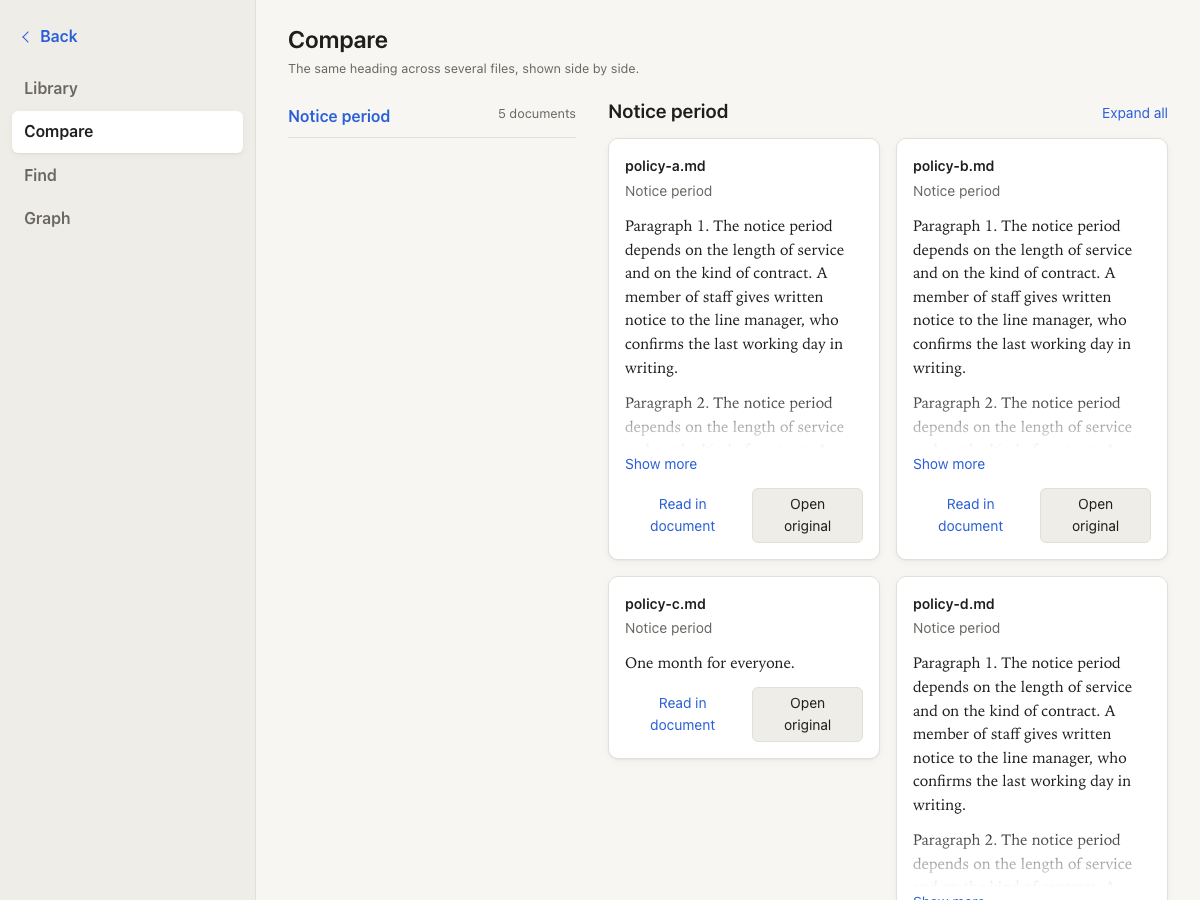
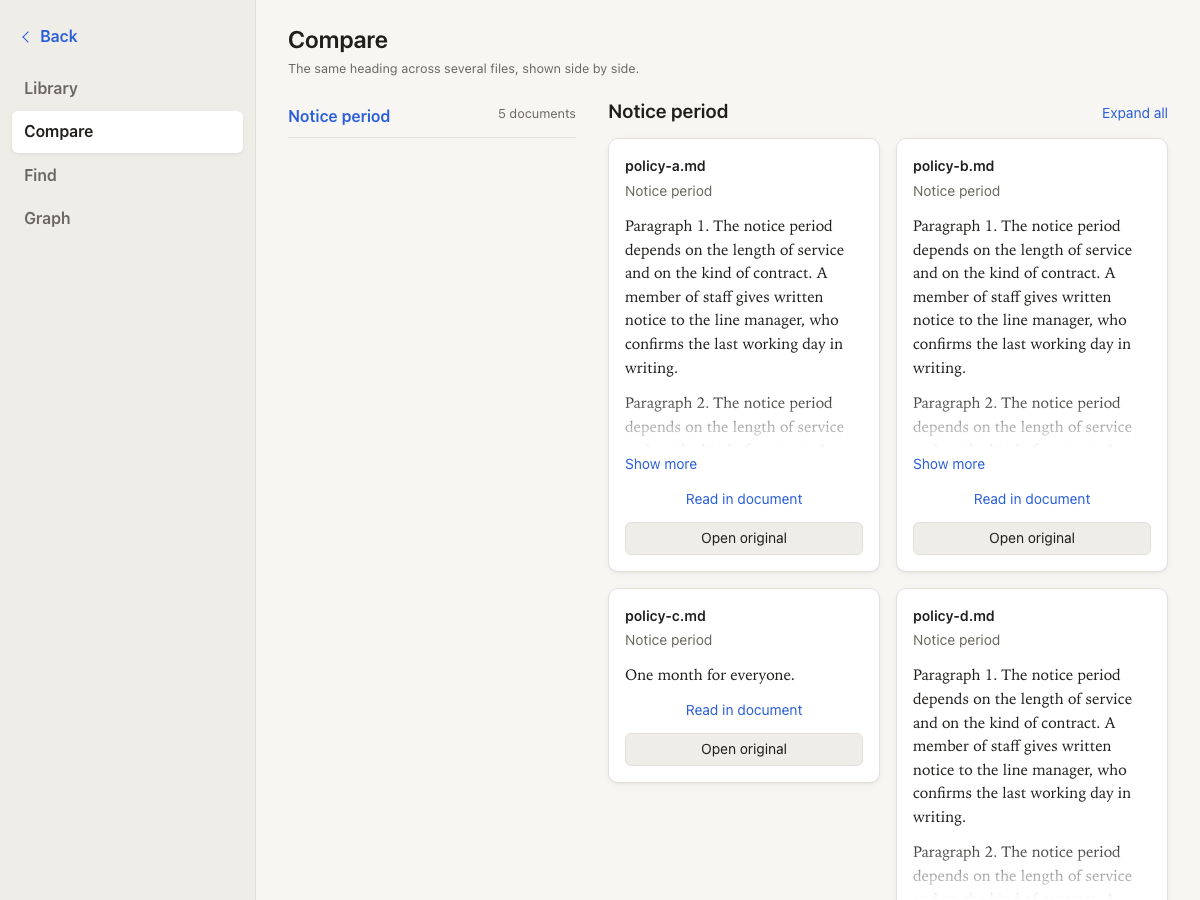
Display fixes: the collapsed group reads Show N more sections or Hide N sections; Compare gives a document one card per heading by logical identity (parts cut by page or after a table, and a repeated heading, in document order with one page range); card actions keep their labels on one line and stac

Changed region(s): [[0.74, 0.5289, 0.9558, 1.0], [0.5242, 0.5289, 0.7092, 0.84]]

diff --git a/test/e2e/ask.spec.js b/test/e2e/ask.spec.js
@@ -1,5 +1,15 @@
 import { test, expect } from '@playwright/test';
-import { mockLibrary, pageUrl, stubBridge, stubAnswer, watcherStatus, card, answerRun, partsOf } from './mocks.js';
+import {
+  cardActionsLayout,
+  mockLibrary,
+  pageUrl,
+  stubBridge,
+  stubAnswer,
+  watcherStatus,
+  card,
+  answerRun,
+  partsOf,
+} from './mocks.js';
 
 const QUESTION = 'How many days of annual leave do employees get?';
 
@@ -80,7 +90,7 @@ test.describe('Ask page with the answer pipeline stubbed', () => {
       const summary = g.considered.locator('summary');
       await expect(summary).toHaveCSS('font-weight', '600');
       await expect(summary).toHaveCSS('font-size', '14px');
-      await expect(summary).toHaveText('▸ Show 1 other section');
+      await expect(summary).toHaveText('▸ Show 1 more section');
     });
 
     test('one starred sentence: its section is in the open group after the sources, the rest stays collapsed', async ({
@@ -179,7 +189,7 @@ test.describe('Ask page with the answer pipeline stubbed', () => {
       ]);
       expect(new Set(shown.map((x) => x.cls)).size).toBe(1);
       expect(shown.every((x) => x.visible)).toBe(true);
-      await expect(g.considered.locator('summary')).toHaveText('▾ Hide 2 other sections');
+      await expect(g.considered.locator('summary')).toHaveText('▾ Hide 2 sections');
       // Display only: the path shows the logical section once, the page in its own line, and the
       // printed page number at the start of a passage is not shown.
       const nest = g.sources.getByTestId('source-card');
@@ -249,9 +259,9 @@ test.describe('Ask page with the answer pipeline stubbed', () => {
     await expect(considered).toBeVisible();
     await expect(considered).not.toHaveAttribute('open', '');
     await expect(considered.getByTestId('source-card')).toBeHidden();
-    await expect(considered.locator('summary')).toHaveText('▸ Show 1 other section');
+    await expect(considered.locator('summary')).toHaveText('▸ Show 1 more section');
     await considered.locator('summary').click();
-    await expect(considered.locator('summary')).toHaveText('▾ Hide 1 other section');
+    await expect(considered.locator('summary')).toHaveText('▾ Hide 1 section');
     await expect(considered.getByTestId('source-card')).toHaveCount(1);
     await expect(considered.getByTestId('source-section')).toHaveText('Facilities > Parking');
     await expect(considered.getByTestId('source-number')).toHaveText(['[3]']);
@@ -259,6 +269,27 @@ test.describe('Ask page with the answer pipeline stubbed', () => {
     await expect(page.getByTestId('answer')).toHaveAttribute('aria-busy', 'false');
     expect(await page.evaluate(() => window.__answerCalls)).toEqual([['ask', QUESTION]]);
   });
+
+  for (const width of [360, 1200]) {
+    test(`card actions keep their labels on one line in a ${width} px window`, async ({ page }) => {
+      await page.setViewportSize({ width, height: 900 });
+      // The first cited card is shortened, so its row also holds the Shortened to fit note.
+      const trimmed = ANSWERED.map((e) =>
+        e.type === 'done' ? { ...e, result: { ...e.result, cited: [{ ...CARRY, trimmed: true }, LEAVE] } } : e,
+      );
+      await open(page, { runs: { [QUESTION]: trimmed } });
+      await askQuestion(page);
+      await page.getByTestId('considered').locator('summary').click();
+      const actions = await cardActionsLayout(page.locator('#result'));
+      expect(actions).toHaveLength(3);
+      for (const a of actions) {
+        expect(a.oneLine).toBe(true);
+        expect(['side by side', 'stacked']).toContain(a.layout);
+      }
+      await expect(page.getByTestId('source-count').first()).toBeVisible();
+      console.log(`[ask] ${width} px: actions ${actions.map((a) => `${a.width}px ${a.layout}`).join(', ')}`);
+    });
+  }
 
   test('a card with a display name shows it first and the file name smaller beside it', async ({ page }) => {
     const named = card(1, {

diff --git a/src/main/browse/browse-index.ts b/src/main/browse/browse-index.ts
@@ -215,22 +215,25 @@ export class BrowseIndex {
   headings(o: { key?: string | null; minDocuments?: number } = {}): HeadingGroup[] {
     const groups = new Map<string, HeadingEntry[]>();
     for (const d of this.docs.values()) {
-      // Parts the splitter cut from one section (T (page N), T (continued)) merge into the entry of
-      // T, so a heading appears once per section and its card holds every part's text in order.
-      const open = new Map<string, HeadingEntry>();
+      // One card per document under a heading, by logical identity: the document and the heading
+      // without the splitter's part marker. Parts it cut by page or after a table (T (page N),
+      // T (continued), and a table section titled T between them) and a heading the document uses
+      // more than once all go into that card, text in document order, one page range over them.
+      const mine = new Map<string, HeadingEntry>();
       for (const s of d.sections) {
         const part = PAGE_PART.test(s.title);
         const title = part ? s.title.replace(PAGE_PART, '').trim() : s.title;
         const key = part ? normalizeHeading(title) : s.heading;
         if (!key || (o.key && key !== o.key)) continue;
-        const owner = part ? open.get(key) : undefined;
+        const owner = mine.get(key);
         if (owner) {
-          if (s.pageStart !== null && owner.pageStart === null) {
+          if (s.pageStart !== null && (owner.pageStart === null || s.pageStart < owner.pageStart)) {
             owner.pageStart = s.pageStart;
             owner.pageLabelStart = s.pageLabelStart;
           }
-          if (s.pageEnd !== null || s.pageStart !== null) {
-            owner.pageEnd = s.pageEnd ?? s.pageStart;
+          const end = s.pageEnd ?? s.pageStart;
+          if (end !== null && (owner.pageEnd === null || end > owner.pageEnd)) {
+            owner.pageEnd = end;
             owner.pageLabelEnd = s.pageLabelEnd ?? s.pageLabelStart;
           }
           if (o.key) owner.text = [owner.text, s.text].filter(Boolean).join('\n\n');
@@ -249,7 +252,7 @@ export class BrowseIndex {
           pageLabelEnd: s.pageLabelEnd,
           ...(o.key ? { text: s.text } : {}),
         };
-        open.set(key, entry);
+        mine.set(key, entry);
         groups.set(key, [...(groups.get(key) ?? []), entry]);
       }
     }

diff --git a/src/main/browse/compare.test.ts b/src/main/browse/compare.test.ts
@@ -73,4 +73,35 @@ describe('Compare groups (BrowseIndex.headings)', () => {
     expect(bankFees).toMatchObject({ sectionIndex: 3, pageStart: 6, pageEnd: 7 });
     expect(bankFees.text).toBe('Fees before the table.\n\nFees after the table.');
   });
+
+  it('gives a document one card per heading: a table section titled like its heading, and the heading used twice', () => {
+    const { index, add } = library();
+    // As structuredTables writes a section with a table: the heading, its text after the table as
+    // (continued), the table as a section titled like the heading, then (continued) again.
+    add('/d/club.pdf', [
+      ['Garden Words', 2, 3, 'Members are people who paid the fee.'],
+      ['Garden Words (continued)', 2, 3, 'Guests are invited by members.'],
+      ['Garden Words', 2, 4, 'Term | Meaning'],
+      ['Garden Words (continued)', 2, 5, 'Trustees are elected yearly.'],
+      ['Meetings', 1, 6, 'Meetings are held monthly.'],
+      ['Garden Words', 2, 9, 'A quorum is five members.'],
+    ]);
+    add('/d/league.pdf', [['Garden Words', 1, 1, 'Teams are clubs that play.']]);
+    const [group] = index.headings({ key: 'garden words' });
+    expect(group!.documents).toBe(2);
+    expect(group!.entries.map((e) => e.documentTitle)).toEqual(['club.pdf', 'league.pdf']);
+    const club = group!.entries[0]!;
+    expect(club).toMatchObject({ title: 'Garden Words', sectionIndex: 1, pageStart: 3, pageEnd: 9 });
+    expect(club.text).toBe(
+      [
+        'Members are people who paid the fee.',
+        'Guests are invited by members.',
+        'Term | Meaning',
+        'Trustees are elected yearly.',
+        'A quorum is five members.',
+      ].join('\n\n'),
+    );
+    expect(index.headings().find((g) => g.key === 'garden words')).toMatchObject({ documents: 2 });
+    expect(index.headings().find((g) => g.key === 'garden words')!.entries).toHaveLength(2);
+  });
 });

diff --git a/test/e2e/mocks.js b/test/e2e/mocks.js
@@ -202,3 +202,31 @@ export async function stubAnswer(
     { runs, fallback, developer },
   );
 }
+
+// Checks the two actions of every card in scope: no label overflows or breaks, and either both sit
+// side by side on one line or the second is under the first with both at the row's full width.
+export async function cardActionsLayout(scope) {
+  return scope.locator('.card-actions').evaluateAll((rows) =>
+    rows.map((row) => {
+      const buttons = [...row.querySelectorAll('button')].filter((b) => b.checkVisibility());
+      const r = row.getBoundingClientRect();
+      const boxes = buttons.map((b) => b.getBoundingClientRect());
+      const lineHeight = (b) => parseFloat(window.getComputedStyle(b).lineHeight) || 20;
+      const oneLine = buttons.every(
+        (b, i) => b.scrollWidth <= b.clientWidth + 1 && boxes[i].height < lineHeight(b) * 1.9 + 16,
+      );
+      // Buttons of different heights share a row when their vertical centres line up.
+      const mid = (b) => (b.top + b.bottom) / 2;
+      const sideBySide = boxes.length === 2 && Math.abs(mid(boxes[0]) - mid(boxes[1])) < 2;
+      const stacked =
+        boxes.length === 2 &&
+        boxes[1].top >= boxes[0].bottom - 1 &&
+        boxes.every((b) => Math.abs(b.width - r.width) < 2);
+      return {
+        width: Math.round(r.width),
+        oneLine,
+        layout: sideBySide ? 'side by side' : stacked ? 'stacked' : 'other',
+      };
+    }),
+  );
+}

diff --git a/src/renderer/ask/groups.test.js b/src/renderer/ask/groups.test.js
@@ -44,6 +44,12 @@ describe('sourceGroups', () => {
     everyOnce(g, sent);
   });
 
+  it("takes a card's details from the result, the sources event only for a source the result left out", () => {
+    const g = sourceGroups({ sent: [card(1), card(2)], cited: [{ ...card(1), trimmed: true }], considered: [] });
+    expect(g.cited[0].trimmed).toBe(true);
+    expect(g.considered.map((c) => c.n)).toEqual([2]);
+  });
+
   it('works without the sources event, from the result alone', () => {
     const g = sourceGroups({ cited: [card(2)], considered: [card(1), card(3)], drawn: [card(3)] });
     expect(numbers(g)).toEqual({ cited: [2], drawn: [3], considered: [1] });
@@ -52,8 +58,9 @@ describe('sourceGroups', () => {
 
 describe('consideredTitle', () => {
   it('says what opening or closing does, with the count', () => {
-    expect(consideredTitle(3, false)).toBe('▸ Show 3 other sections');
-    expect(consideredTitle(3, true)).toBe('▾ Hide 3 other sections');
-    expect(consideredTitle(1, false)).toBe('▸ Show 1 other section');
+    expect(consideredTitle(3, false)).toBe('▸ Show 3 more sections');
+    expect(consideredTitle(3, true)).toBe('▾ Hide 3 sections');
+    expect(consideredTitle(1, false)).toBe('▸ Show 1 more section');
+    expect(consideredTitle(1, true)).toBe('▾ Hide 1 section');
   });
 });

diff --git a/src/renderer/ask/ask.css b/src/renderer/ask/ask.css
@@ -402,10 +402,44 @@ h2 {
 }
 
 .card-actions {
+  /* A size container, so a narrow card stacks its actions instead of breaking their labels. */
+  container: card-actions / inline-size;
   display: flex;
+  flex-wrap: wrap;
   align-items: center;
   justify-content: flex-end;
   gap: var(--space-3);
+}
+
+.card-actions > button {
+  white-space: nowrap;
+}
+
+/* When the actions do not fit side by side, each takes the full width, the second under the
+   first. Measured label widths at 16 px root size: Compare's Read in document and Open original
+   need about 241 px with the gap, Ask's Read section and Open file 180 px, 286 px with the
+   Shortened to fit note; the thresholds are those plus a small margin, in rem so they follow the
+   font size. */
+@container card-actions (max-width: 15.5rem) {
+  .compare-card .card-actions > * {
+    flex: 1 1 100%;
+  }
+}
+
+@container card-actions (max-width: 12rem) {
+  .card .card-actions > * {
+    flex: 1 1 100%;
+  }
+}
+
+@container card-actions (max-width: 18.5rem) {
+  .card .card-actions:has(> .card-count:not([hidden])) > * {
+    flex: 1 1 100%;
+  }
+
+  .card .card-actions:has(> .card-count:not([hidden])) > .card-count {
+    margin-right: 0;
+  }
 }
 
 .card-count {

diff --git a/src/renderer/ask/groups.js b/src/renderer/ask/groups.js
@@ -9,7 +9,8 @@
  */
 export function sourceGroups({ sent = [], cited = [], considered = [], drawn = [] }) {
   const byN = new Map();
-  for (const c of [...sent, ...cited, ...drawn, ...considered]) if (!byN.has(c.n)) byN.set(c.n, c);
+  // The result's cards are final; the sources event only fills in a source the result left out.
+  for (const c of [...cited, ...drawn, ...considered, ...sent]) if (!byN.has(c.n)) byN.set(c.n, c);
   const used = new Set();
   const take = (list) =>
     list.filter((c) => {
@@ -23,8 +24,8 @@ export function sourceGroups({ sent = [], cited = [], considered = [], drawn = [
   return { cited: citedOut, drawn: drawnOut, considered: rest };
 }
 
-/** The collapsed title of the other sections: ▸ Show 3 other sections, ▾ Hide 1 other section. */
+/** The title of the other sections: ▸ Show 3 more sections when closed, ▾ Hide 3 sections when open. */
 export function consideredTitle(count, open) {
-  const noun = count === 1 ? 'other section' : 'other sections';
-  return `${open ? '▾ Hide' : '▸ Show'} ${count} ${noun}`;
+  const noun = count === 1 ? 'section' : 'sections';
+  return open ? `▾ Hide ${count} ${noun}` : `▸ Show ${count} more ${noun}`;
 }

diff --git a/src/renderer/ask/index.html b/src/renderer/ask/index.html
@@ -58,7 +58,7 @@
           </details>
 
           <details class="considered" id="considered" data-testid="considered" hidden>
-            <summary id="considered-title" data-testid="considered-title">▸ Show 0 other sections</summary>
+            <summary id="considered-title" data-testid="considered-title">▸ Show 0 more sections</summary>
             <ol class="cards" id="considered-list"></ol>
           </details>
 

diff --git a/docs/app.md b/docs/app.md
@@ -179,7 +179,7 @@ The browse index (src/main/browse) is one JSON file per document in `<dataDir>/l
 
 Built from the index.json record and the section documents under STORAGE_DIR/documents, so it shows exactly the split that retrieval embeds, OCR text included. Kept current from the watcher's file events (indexed, unchanged, removed); after every watcher start, sync drops entries for files the watcher no longer has and builds missing ones. Loaded before the watcher starts, so the library shows during a long reconcile.
 
-The Compare page asks for headings found in two or more documents only (BrowseIndex.headings, minDocuments 2). Its cards show file name, section and page, then at most 10 lines of text that fade out at the bottom, with Show more and Show less to open a card in place; Expand all or Collapse all at the top acts on every long card. The page uses the whole window width, and the number of columns follows the width the cards get (a container query on the detail column): one below 34rem, two to 56rem (the default 1200 px window), three to 76rem, four above, each card between about 16.5rem and 32rem wide, aligned at the top (test/e2e/compare.spec.mjs, screenshots in docs/screenshots/compare). On the Document page a part the splitter cut by page or after a table shows no title of its own, only its page marker (Page 5); the parent title appears once above the first part. The per-section summary lines stay at each part.
+The Compare page asks for headings found in two or more documents only (BrowseIndex.headings, minDocuments 2). Under a heading a document has exactly one card, by logical identity (the document and the heading without the splitter's part marker): the parts the splitter cut by page or after a table (T (page N), T (continued), and a table section titled like the heading between them) and a heading the document uses more than once go into that card, text in document order, one page range from the first page to the last; the list counts N documents by distinct documents. Its cards show file name, section and page, then at most 10 lines of text that fade out at the bottom, with Show more and Show less to open a card in place; Expand all or Collapse all at the top acts on every long card. The page uses the whole window width, and the number of columns follows the width the cards get (a container query on the detail column): one below 34rem, two to 56rem (the default 1200 px window), three to 76rem, four above, each card between about 16.5rem and 32rem wide, aligned at the top. The two actions of a card (Read in document and Open original on Compare, Read section and Open file on Ask) never break their labels: side by side when they fit, otherwise each at the full card width, the second under the first (a container query on the action row, thresholds from the measured label widths; cardActionsLayout in test/e2e/mocks.js checks every card) (test/e2e/compare.spec.mjs, screenshots in docs/screenshots/compare). On the Document page a part the splitter cut by page or after a table shows no title of its own, only its page marker (Page 5); the parent title appears once above the first part. The per-section summary lines stay at each part.
 
 Heading normalization (src/main/browse/normalize.ts, numbering prefixes from src/main/sections/headings.ts): NFKC, which turns full-width letters, digits and punctuation into half-width; lower case; numbering prefixes removed, repeatedly (1, 1., 1.2.3, 1), 1、, (1), (a), a), I., IV), Chapter 3, Section 2.1, Part II, Article 5, Appendix A, § 4, 第一章, 第12节, 第三条, 第二部分, 一、, (一)); then punctuation and symbols removed and whitespace collapsed. Number parts have at most three digits, so 2026 Budget keeps its year. A heading that is only numbering (第一章 alone) keeps it.
 
@@ -218,7 +218,7 @@ Switches that change the single mode, each off in the presets until an eval roun
 - decomposeQuestions (src/main/answer/decompose.ts, off; round 9b): a question is split only on structure it shows: asks joined by and, as well as or a comma list, each starting with a question word, after a lead-in (Under paragraph 4.7 of the Staff Regulations, ...); or Compare A and B: ask, one part per member. A later ask that points back (it, its, that, there), the former / the latter with no two-member list to resolve them, no lead-in, two question sentences or more than 4 parts leave it whole; a one- or two-word ask (why) joins the one before. Each part runs retrieve, choose and answer on its own; the answer streams part by part under the part's ask as a lead-in, the sources list only grows so numbers already shown stay, citations are renumbered to the union, a section two parts share is one card, and a part its sources do not answer reads The documents do not state this. The result is not found only when every part is. The trace panel shows the first part. `[answer] decompose: asks, 2 parts: "What starts the notice period?" | "Which paragraphs govern the notice period?"`.
 - dropUnsupportedHedges (src/main/answer/hedges.ts, on in the presets): after citation verification a sentence marked unsupported that only says something is missing (The physical PDF page and printed page are not specified in the sources.) is deleted when the answer keeps at least one supported sentence, so the user does not see a muted warning on a remark that is not a claim. Supported sentences are never deleted, and nothing is deleted when no supported sentence would remain. `[answer] hedge dropped: <sentence>`.
 
-6. Output: [n] citations are parsed as they stream (a citation cut between chunks is held back); the cards show the cited sections in citation order with file name, section path, PDF pages and printed page label (when the section records carry one), and the passage the model read, all from the section records. Sections the model cited whose citations verification removed (AnswerResult.drawnFrom; the pipeline keeps them in considered too, so the eval and the test record are unchanged) follow the cited cards in their own group, Drawn from, not word for word, open, with the same cards; the group is absent when every citation passes. The other sources sent to the model follow, collapsed, under a bold title that says what a click does: ▸ Show 3 other sections, ▾ Hide 3 other sections. Every card in the three groups shows its source number [n] in the same style, and every number sent to the model appears on exactly one card (src/renderer/ask/groups.js, sourceGroups: cited first, then drawn from, then the rest in source order; a source the result places in no group is shown with the others, one it places twice once). Display only, on Ask cards, the nothing-found list, Compare cards and Find hits (src/renderer/shared/display.js): a section path shows each level without the splitter's part marker, (page N) or (continued), and a level that then repeats the one above it once, so a part shows under its logical parent and the page stays in its own line; a passage that starts with a line holding only a printed page number (up to three digits or a roman numeral), or with such a number glued to a capitalised heading (iiiIntroduction; a glued roman numeral has two letters at least, so iPad stays), is shown without it. The index, the passages the model reads and verification are unchanged. The reply NOT_IN_SOURCES shows the nothing-found list with the best reranked sections, up to 8, with no floor. A sentence no source supports stays muted and gets an asterisk after it; one line under the answer, and the asterisk's tooltip, explain it: Starred sentences have no word-for-word support in the sources. They may be a summary or conclusion drawn from the sources, or they may be inaccurate. Check them against the source cards. For an answer that is mainly Chinese (at least 30 percent of its letters CJK) the line is 带星号的句子在来源中没有逐字对应的原文，可能是根据来源归纳的结论，也可能不准确，请对照来源卡片核实。 The page has no other locale, so the answer's language picks the line. A lead-in ending with a colon before cited sentences (leadInExempt) gets no asterisk.
+6. Output: [n] citations are parsed as they stream (a citation cut between chunks is held back); the cards show the cited sections in citation order with file name, section path, PDF pages and printed page label (when the section records carry one), and the passage the model read, all from the section records. Sections the model cited whose citations verification removed (AnswerResult.drawnFrom; the pipeline keeps them in considered too, so the eval and the test record are unchanged) follow the cited cards in their own group, Drawn from, not word for word, open, with the same cards; the group is absent when every citation passes. The other sources sent to the model follow, collapsed, under a bold title that says what a click does: ▸ Show 3 more sections when closed, ▾ Hide 3 sections when open (Show 1 more section, Hide 1 section). Every card in the three groups shows its source number [n] in the same style, and every number sent to the model appears on exactly one card (src/renderer/ask/groups.js, sourceGroups: cited first, then drawn from, then the rest in source order; a source the result places in no group is shown with the others, one it places twice once). Display only, on Ask cards, the nothing-found list, Compare cards and Find hits (src/renderer/shared/display.js): a section path shows each level without the splitter's part marker, (page N) or (continued), and a level that then repeats the one above it once, so a part shows under its logical parent and the page stays in its own line; a passage that starts with a line holding only a printed page number (up to three digits or a roman numeral), or with such a number glued to a capitalised heading (iiiIntroduction; a glued roman numeral has two letters at least, so iPad stays), is shown without it. The index, the passages the model reads and verification are unchanged. The reply NOT_IN_SOURCES shows the nothing-found list with the best reranked sections, up to 8, with no floor. A sentence no source supports stays muted and gets an asterisk after it; one line under the answer, and the asterisk's tooltip, explain it: Starred sentences have no word-for-word support in the sources. They may be a summary or conclusion drawn from the sources, or they may be inaccurate. Check them against the source cards. For an answer that is mainly Chinese (at least 30 percent of its letters CJK) the line is 带星号的句子在来源中没有逐字对应的原文，可能是根据来源归纳的结论，也可能不准确，请对照来源卡片核实。 The page has no other locale, so the answer's language picks the line. A lead-in ending with a colon before cited sentences (leadInExempt) gets no asterisk.
 
 The main log gets one line per question, without the question text: `[answer] 2 cited of 3 selected, 12 candidates, vector 45 ms, keyword 2 ms, rerank 640 ms, first token 900 ms, total 4100 ms`.
 
